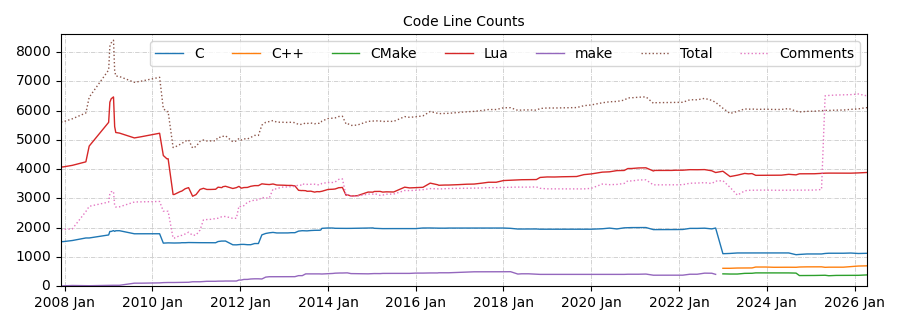
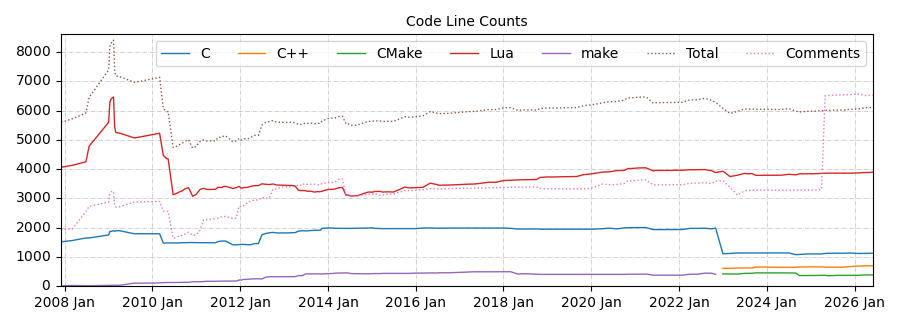
Updated to 13.0 beta 3.

diff --git a/docs/README.md b/docs/README.md
@@ -58,7 +58,7 @@ and a Qt runtime is distributed with Windows and macOS builds.
 You can download pre-built binaries for various platforms, as well as source code from the
 links below.
 
-Stable Release<br/>(12.9) | Unstable Release<br/>(13.0 beta 2) | Experimental<br/>nightly build
+Stable Release<br/>(12.9) | Unstable Release<br/>(13.0 beta 3) | Experimental<br/>nightly build
 -|-|-
 [Windows][stable win] | [Windows][unstable win] | [Windows][nightly win]
 [macOS][stable mac] | [macOS][unstable mac] (Apple Silicon) | [macOS][nightly mac] (Apple Silicon)
@@ -74,12 +74,12 @@ A list of all released versions is [here][all versions] along with their release
 [stable arm]: https://github.com/orbitalquark/textadept/releases/download/textadept_12.9/textadept_12.9.linux.arm.tgz
 [stable modules]: https://github.com/orbitalquark/textadept/releases/download/textadept_12.9/textadept_12.9.modules.zip
 [stable source]: https://github.com/orbitalquark/textadept/archive/refs/tags/textadept_12.9.zip
-[unstable win]: https://github.com/orbitalquark/textadept/releases/download/textadept_13.0_beta_2/textadept_13.0_beta_2.win.zip
-[unstable mac]: https://github.com/orbitalquark/textadept/releases/download/textadept_13.0_beta_2/textadept_13.0_beta_2.macOS.zip
-[unstable linux]: https://github.com/orbitalquark/textadept/releases/download/textadept_13.0_beta_2/textadept_13.0_beta_2.linux.tgz
-[unstable arm]: https://github.com/orbitalquark/textadept/releases/download/textadept_13.0_beta_2/textadept_13.0_beta_2.linux.arm.tgz
-[unstable modules]: https://github.com/orbitalquark/textadept/releases/download/textadept_13.0_beta_2/textadept_13.0_beta_2.modules.zip
-[unstable source]: https://github.com/orbitalquark/textadept/archive/refs/tags/textadept_13.0_beta_2.zip
+[unstable win]: https://github.com/orbitalquark/textadept/releases/download/textadept_13.0_beta_3/textadept_13.0_beta_3.win.zip
+[unstable mac]: https://github.com/orbitalquark/textadept/releases/download/textadept_13.0_beta_3/textadept_13.0_beta_3.macOS.zip
+[unstable linux]: https://github.com/orbitalquark/textadept/releases/download/textadept_13.0_beta_3/textadept_13.0_beta_3.linux.tgz
+[unstable arm]: https://github.com/orbitalquark/textadept/releases/download/textadept_13.0_beta_3/textadept_13.0_beta_3.linux.arm.tgz
+[unstable modules]: https://github.com/orbitalquark/textadept/releases/download/textadept_13.0_beta_3/textadept_13.0_beta_3.modules.zip
+[unstable source]: https://github.com/orbitalquark/textadept/archive/refs/tags/textadept_13.0_beta_3.zip
 [nightly win]: https://github.com/orbitalquark/textadept/releases/download/textadept_nightly/textadept_nightly.win.zip
 [nightly mac]: https://github.com/orbitalquark/textadept/releases/download/textadept_nightly/textadept_nightly.macOS.zip
 [nightly linux]: https://github.com/orbitalquark/textadept/releases/download/textadept_nightly/textadept_nightly.linux.tgz

diff --git a/docs/api.md b/docs/api.md
@@ -1,4 +1,4 @@
-# Textadept 13.0 nightly API Documentation
+# Textadept 13.0 beta 3 API Documentation
 
 1. [_G](#_G)
 2. [_L](#_L)
@@ -7222,6 +7222,13 @@ local keyword = lex:tag(lexer.KEYWORD, lexer.word_match({'foo-bar', 'foo-baz',
    'bar-foo', 'bar-baz', 'baz-foo', 'baz-bar'}, true))
 local keyword = lex:tag(lexer.KEYWORD, lexer.word_match('foo bar baz'))
 ```
+
+<a id="lexer.word_utf8"></a>
+### `lexer.word_utf8`
+
+A pattern that matches a typical UTF-8 word.
+UTF-8 words begin with a letter, underscore,
+or UTF-8 character, and consist of alphanumeric, underscore, and UTF-8 characters.
 
 <a id="lexer.xdigit"></a>
 ### `lexer.xdigit`

diff --git a/docs/manual.md b/docs/manual.md
@@ -1,4 +1,4 @@
-# Textadept 13.0 nightly Manual
+# Textadept 13.0 beta 3 Manual
 
 **Contents**
 
